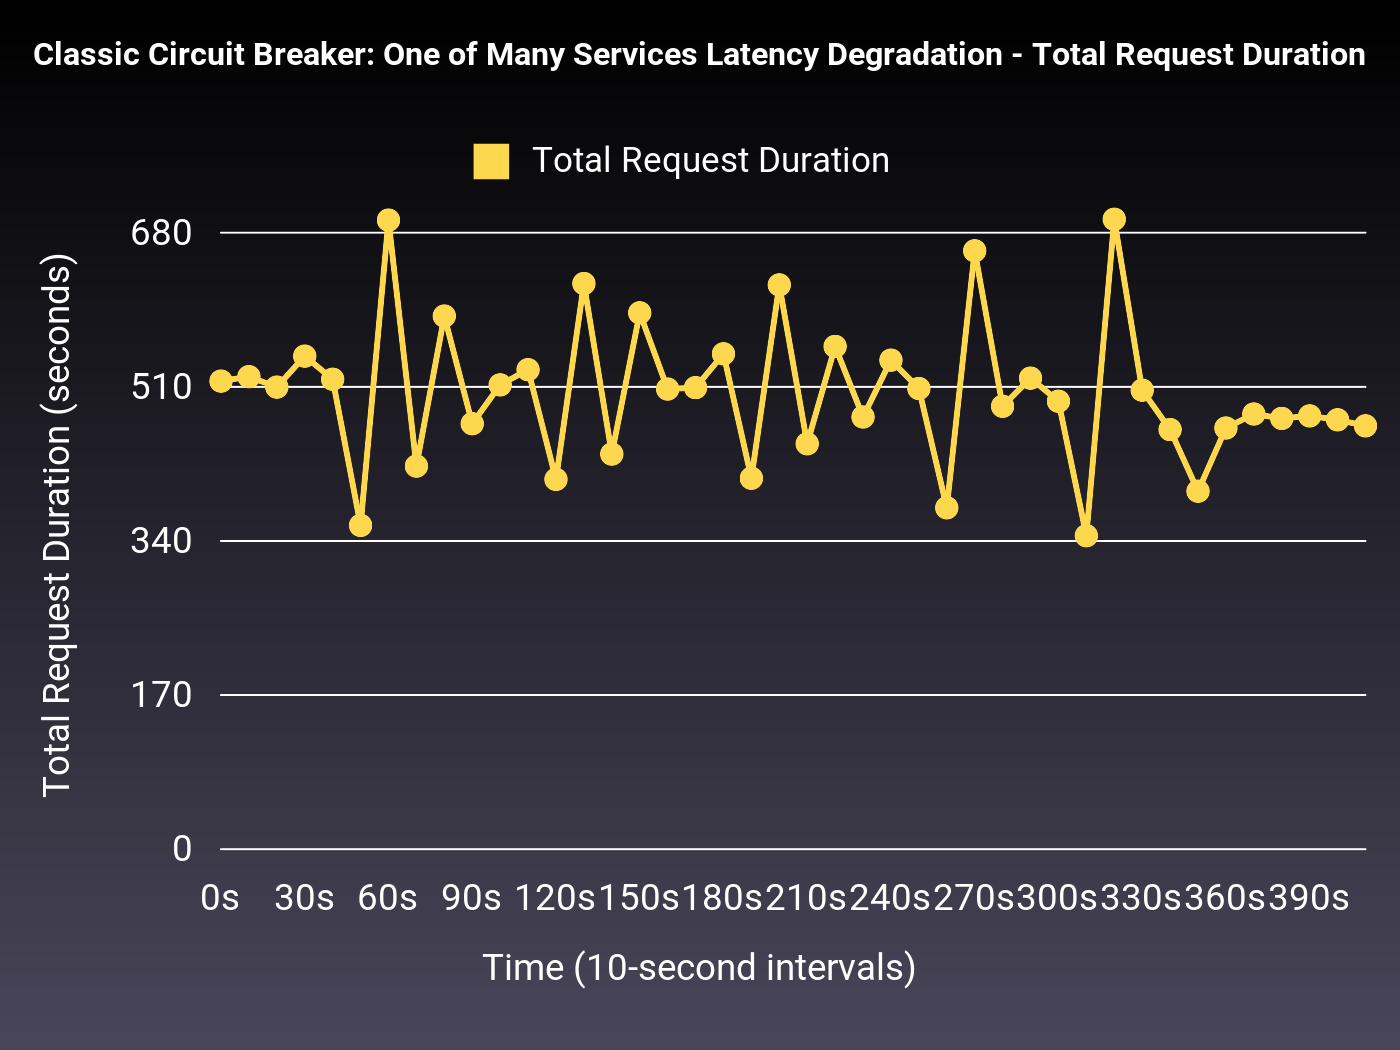
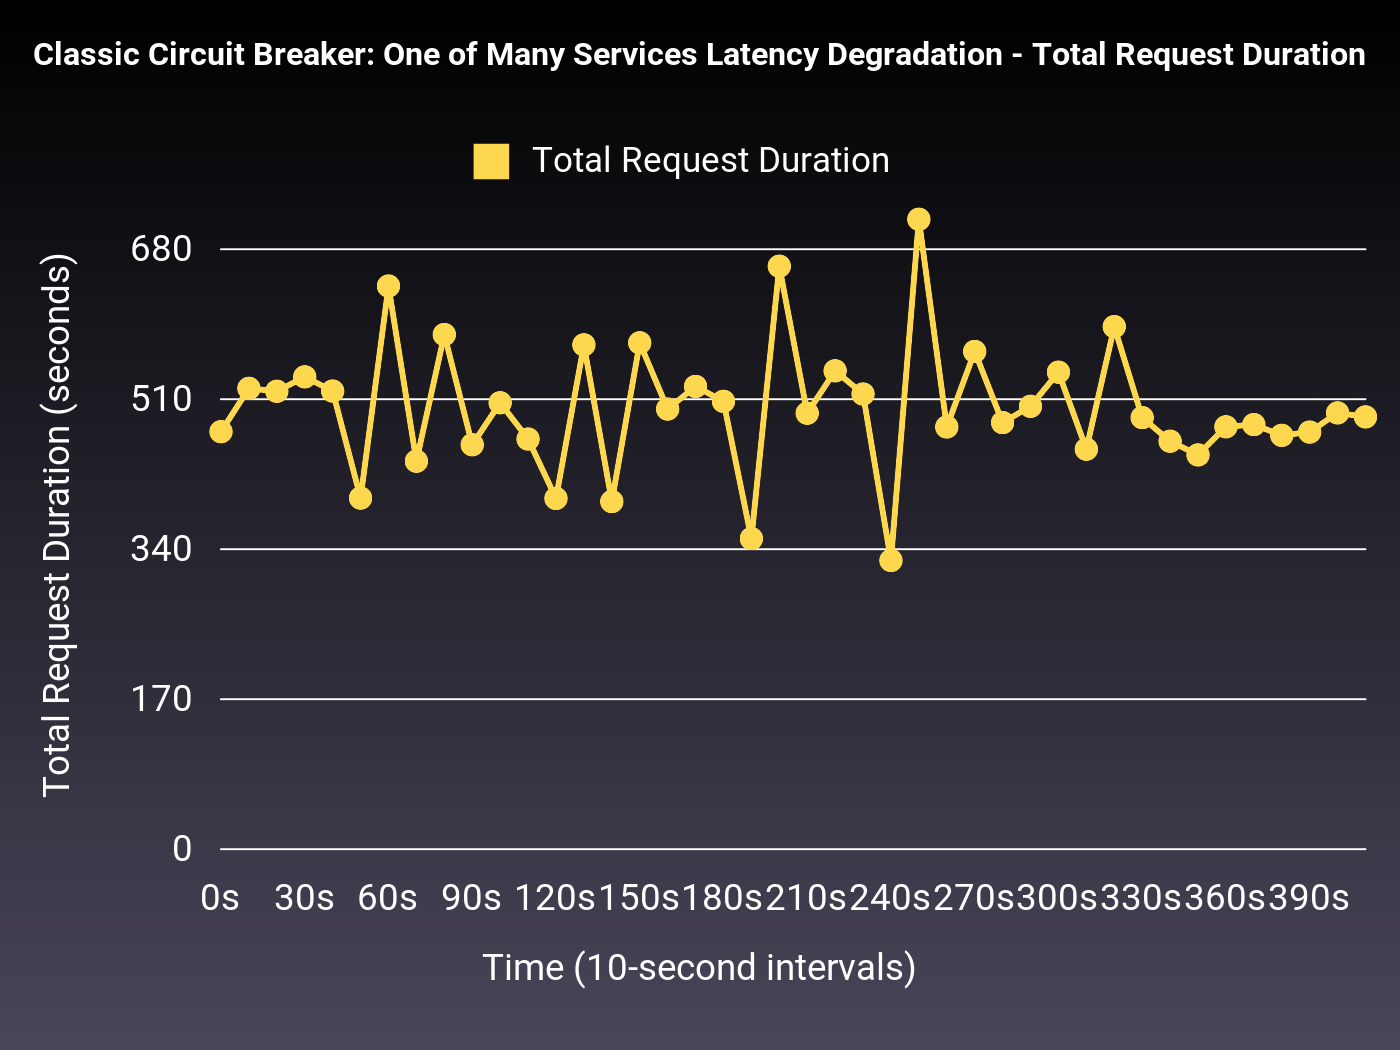
improve experiments, and commit new k values

diff --git a/lib/semian.rb b/lib/semian.rb
@@ -316,9 +316,9 @@ module Semian
     # Fixed parameters based on design document recommendations
     AdaptiveCircuitBreaker.new(
       name: name,
-      kp: 0.3, # Standard proportional gain
-      ki: 0.003, # Moderate integral gain
-      kd: 1.0, # Small derivative gain (as per design doc)
+      kp: 0.75, # Standard proportional gain
+      ki: 0.01, # Moderate integral gain
+      kd: 0.5, # Small derivative gain (as per design doc)
       window_size: 10, # 10-second window for rate calculation and update interval
       initial_history_duration: 900, # 15 minutes of initial history for p90 calculation
       initial_error_rate: options[:initial_error_rate] || 0.01, # 1% error rate for initial p90 calculation

diff --git a/experiments/test_one_of_many_services_degradation_adaptive.rb b/experiments/test_one_of_many_services_degradation_adaptive.rb
@@ -11,7 +11,7 @@ runner = Semian::Experiments::CircuitBreakerTestRunner.new(
   test_name: "One of Many Services Degradation Test",
   resource_name: "protected_service_adaptive",
   degradation_phases: [Semian::Experiments::DegradationPhase.new(healthy: true)] * 1 +
-                      [Semian::Experiments::DegradationPhase.new(latency: 4.95)] * 10 + # All requests to the target service will timeout
+                      [Semian::Experiments::DegradationPhase.new(latency: 4.95)] * 10 + # Most requests to the target service will timeout
                       [Semian::Experiments::DegradationPhase.new(healthy: true)] * 3,
   phase_duration: 30,
   service_count: 10,

diff --git a/experiments/test_one_of_many_services_degradation.rb b/experiments/test_one_of_many_services_degradation.rb
@@ -11,7 +11,7 @@ runner = Semian::Experiments::CircuitBreakerTestRunner.new(
   test_name: "One of Many Services Degradation Test",
   resource_name: "protected_service",
   degradation_phases: [Semian::Experiments::DegradationPhase.new(healthy: true)] * 1 +
-                      [Semian::Experiments::DegradationPhase.new(latency: 6)] * 10 +
+                      [Semian::Experiments::DegradationPhase.new(latency: 4.95)] * 10 + # Most requests to the target service will timeout
                       [Semian::Experiments::DegradationPhase.new(healthy: true)] * 3,
   phase_duration: 30,
   service_count: 10,
